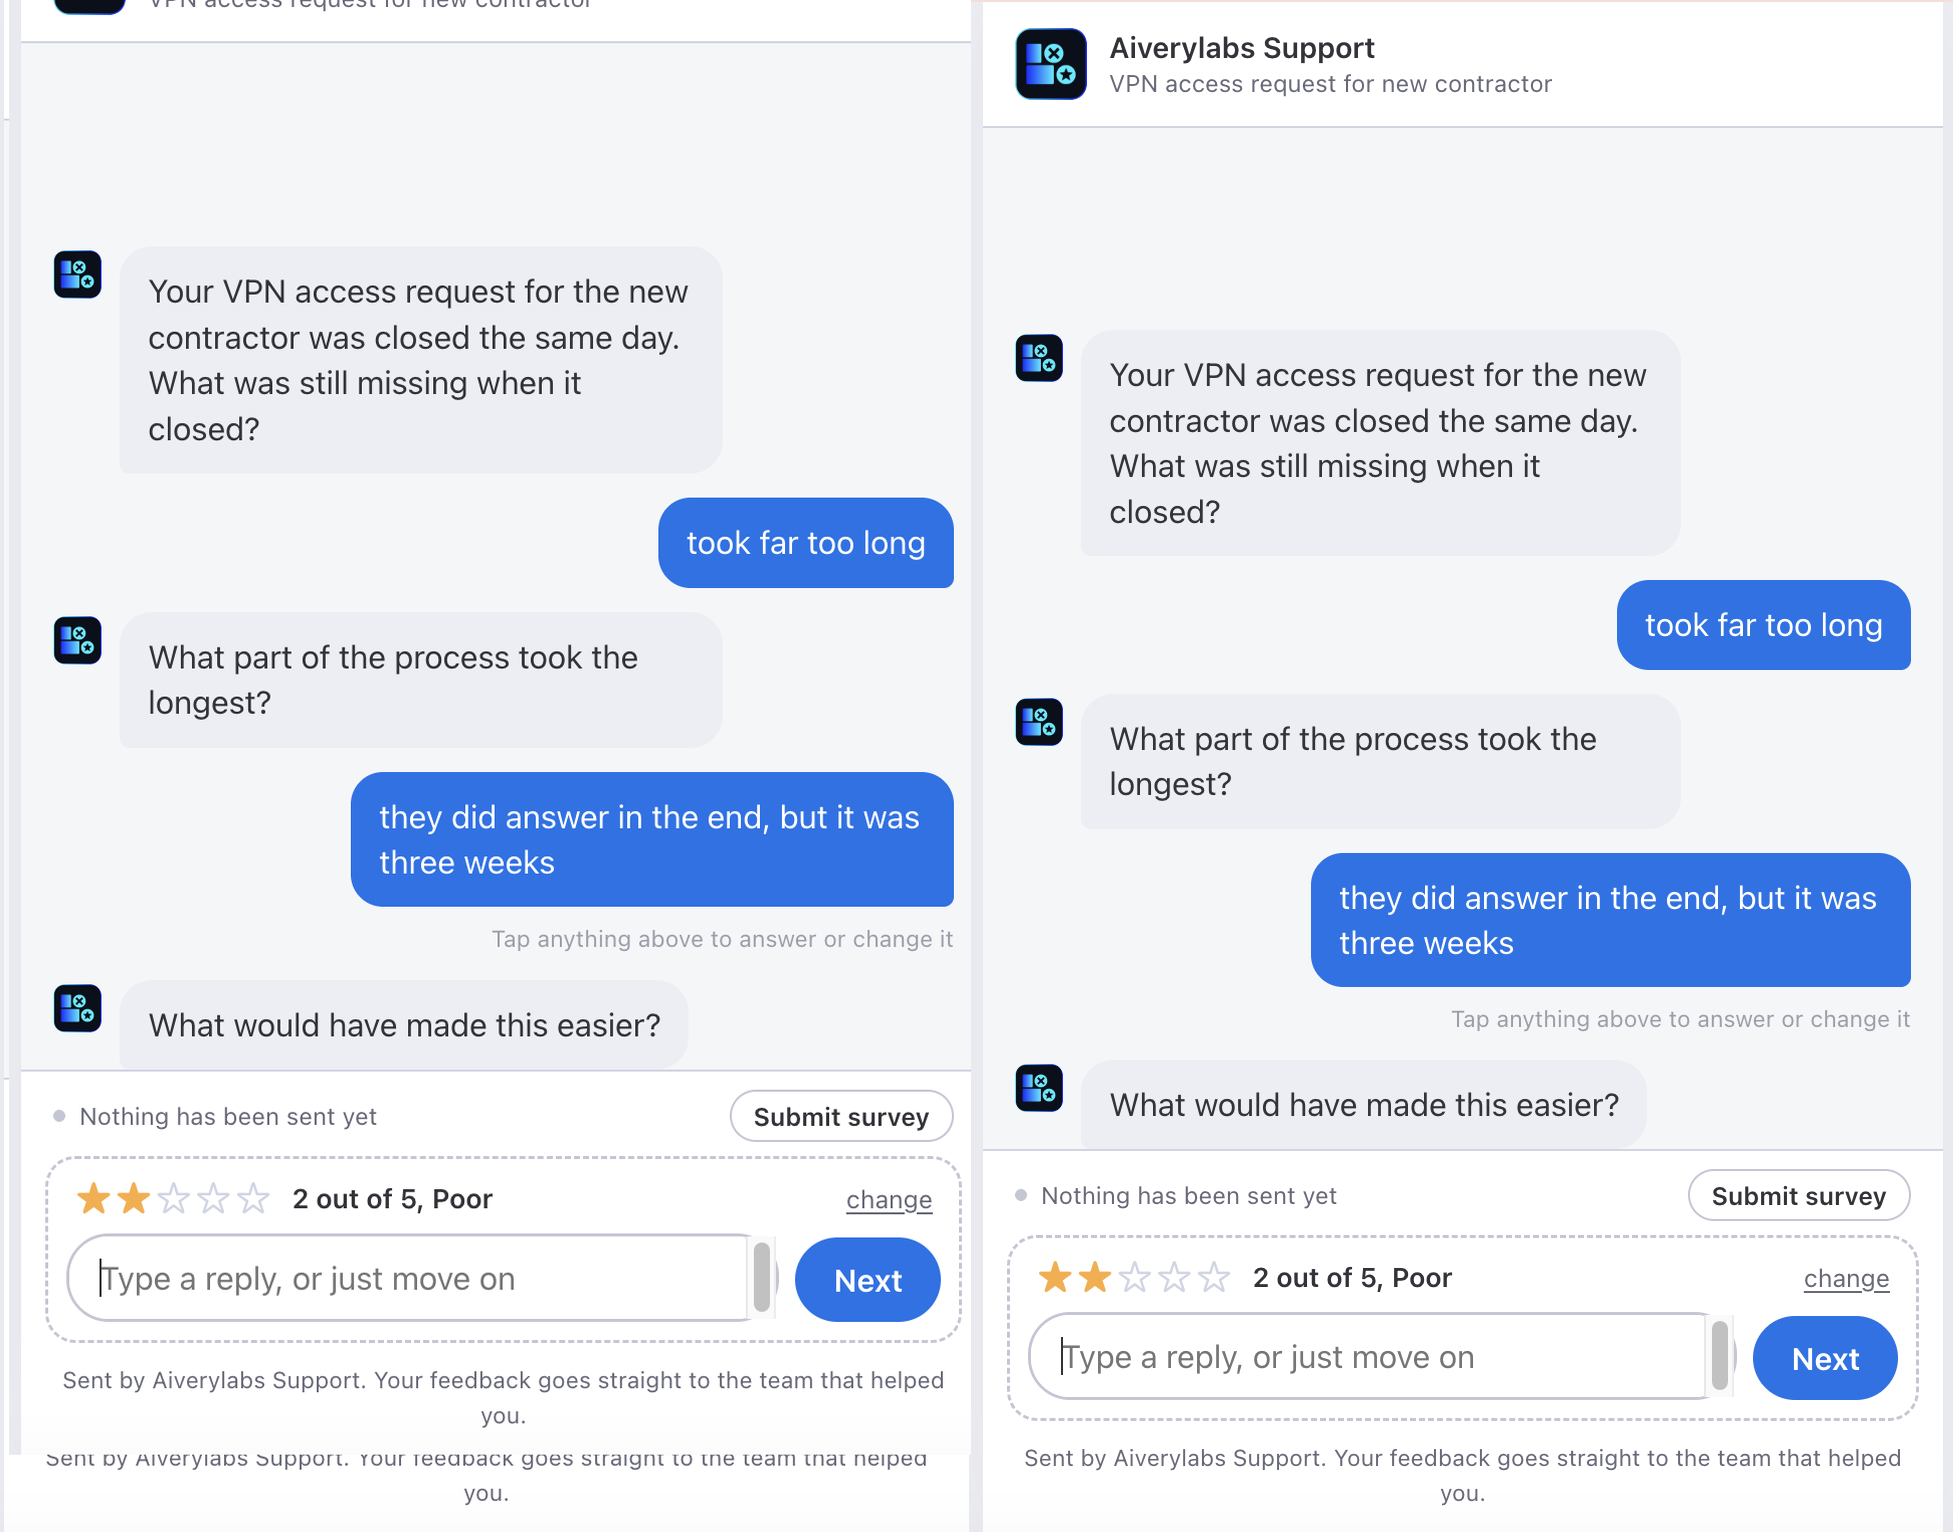
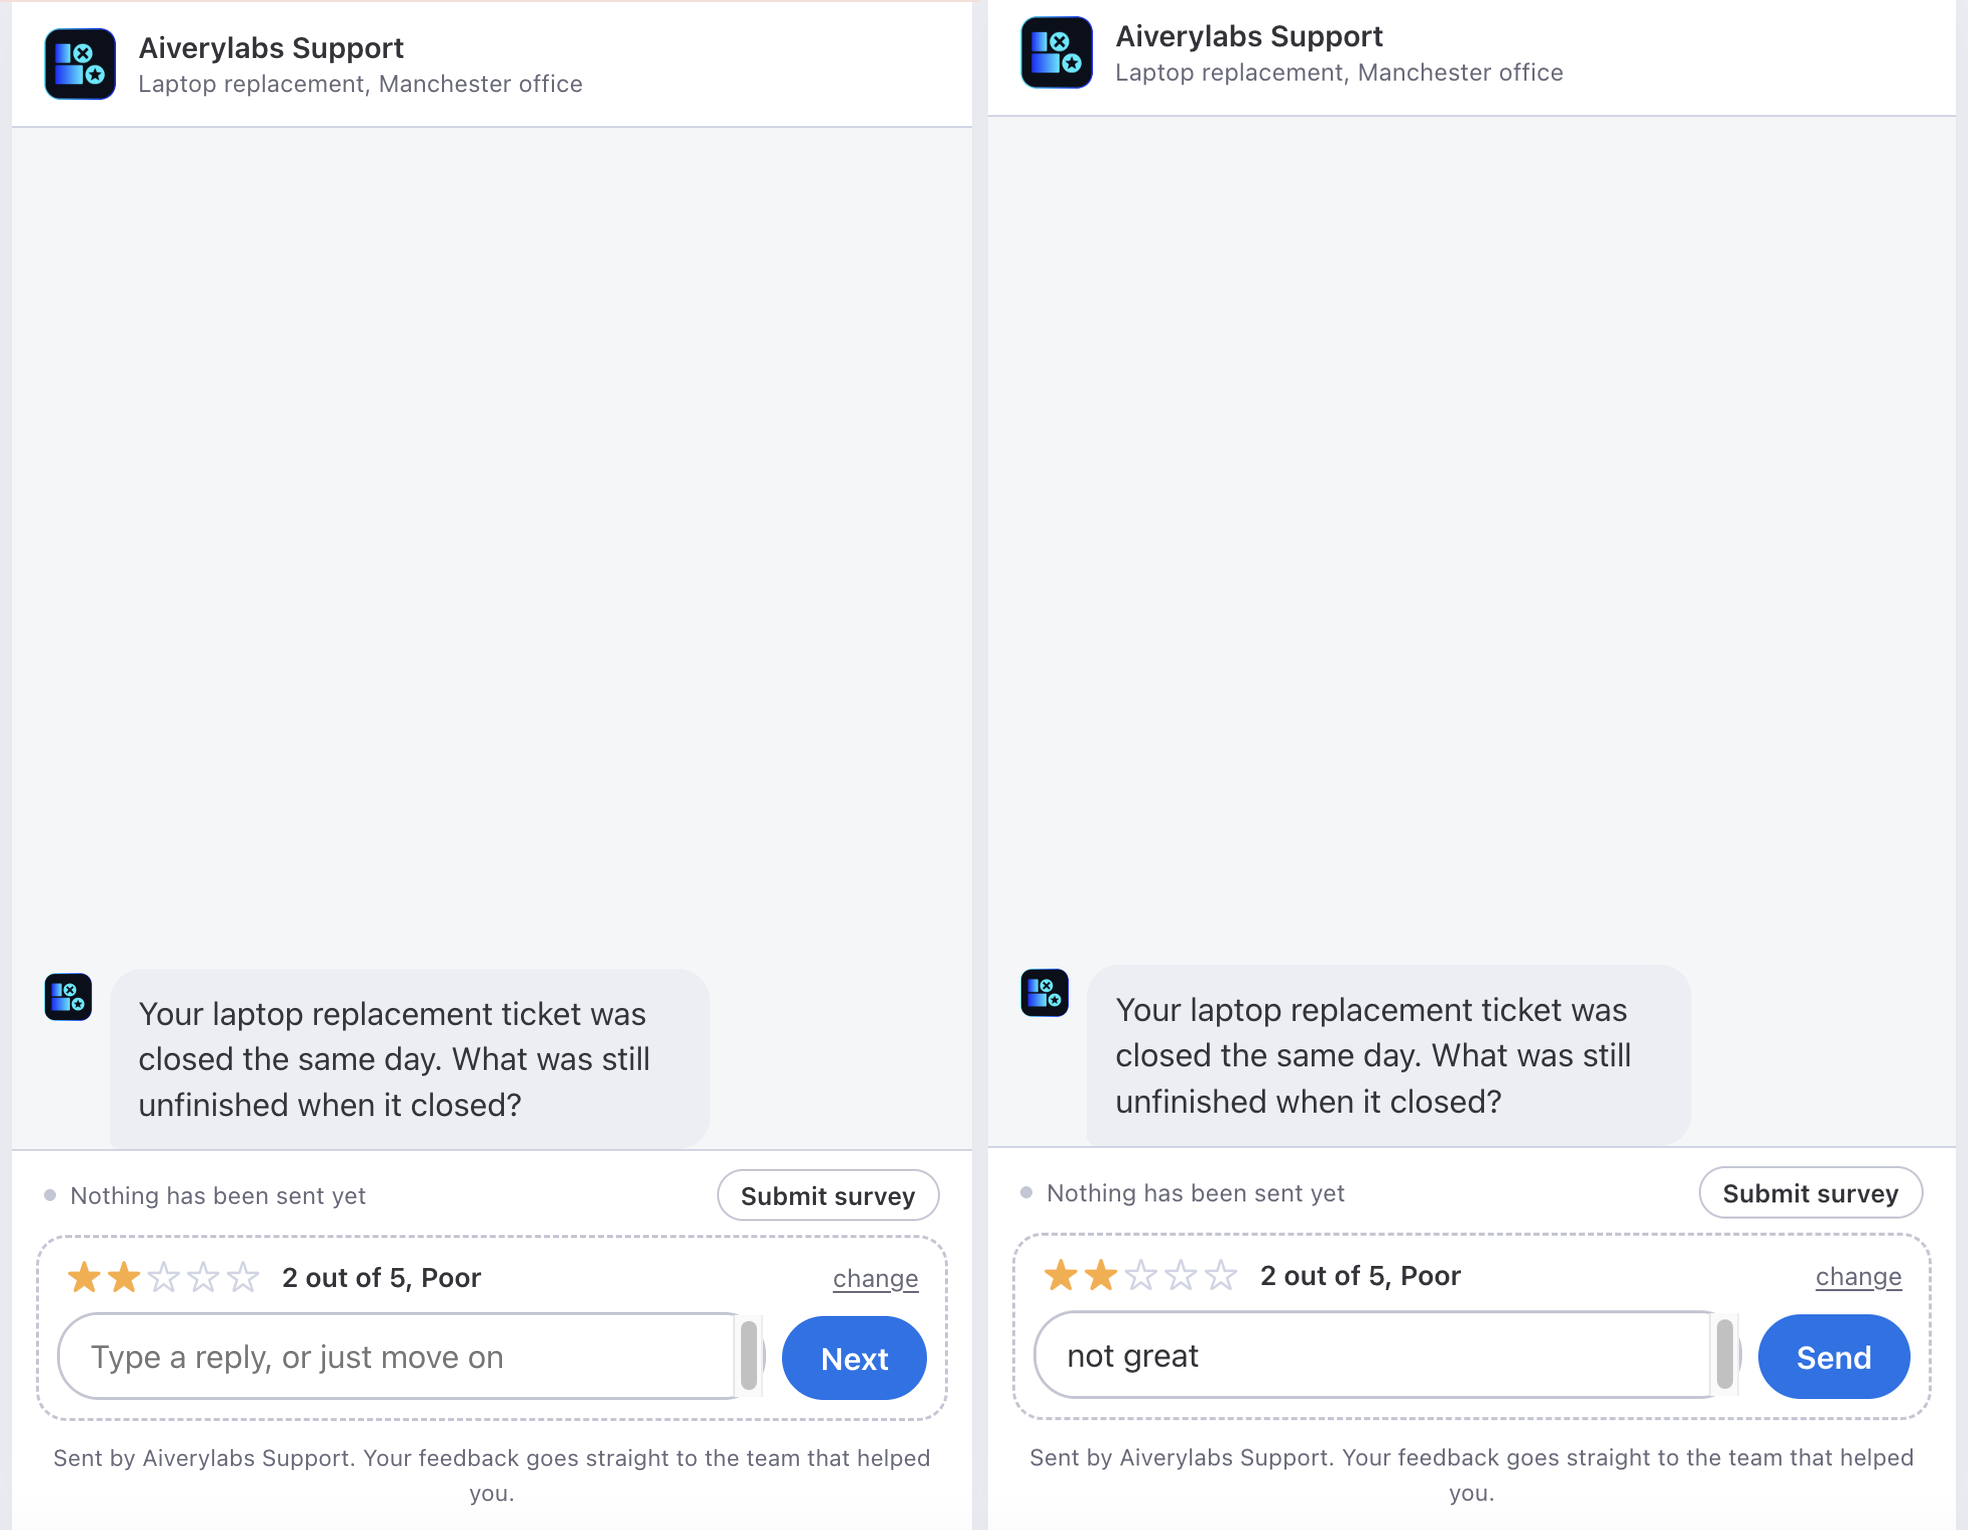
Wire in 37-next-vs-send, and give §8 commands a person can type
The recapture is right: same question, same rating, empty box reading
Next on one side and "not great" typed with Send on the other. Alt text
names both states and the typed word, since the difference between the
panels is the whole point and a reader who cannot see it gets nothing
from "the same turn twice".

§8 described two skills without showing anything anyone would type. It
now lists five that work, and two behaviours that were missing:

  a ticket can be named rather than looked up by id, and a name
  matching more than one ticket makes the skill refuse and list them
  rather than guess - which is what stops a follow up item landing
  against the wrong customer's words

  Sidekick asks for confirmation before either skill runs, including
  the read-only one. monday's behaviour, not ours, and declining means
  nothing reaches us at all

The examples sit before the not-gated warning deliberately: seeing what
anyone can ask makes "there is no switch to leave off" land harder than
it does in the abstract.

Automatic follow-up item creation is still undocumented - the csat
session is establishing it from the code rather than me writing it from
a description.

Claude-Session: https://claude.ai/code/session_018feMo3tg4cgPTaK7DzbNhe

diff --git a/survey-flow/user-guide.html b/survey-flow/user-guide.html
@@ -502,13 +502,10 @@
     <h3>Next and Send are different buttons</h3>
     <p>The button under a turn reads <strong>Send</strong> when there is something to send, or when the question is required. It reads <strong>Next</strong> when the box is empty and the question is optional — and pressing Next skips that question.</p>
     <p>On a required question it always reads Send. Next is a promise that the customer can move on without answering, and on a required question that promise would be false.</p>
-    <!-- SCREENSHOT NEEDED: 37-next-vs-send.png. Drop the file into images/survey-flow/ and delete
-         the two comment markers around the figure below.
     <figure>
-      <img class="screenshot" src="../images/survey-flow/37-next-vs-send.png" alt="The same survey turn twice: an empty answer box with the button reading Next, and a filled one with the button reading Send">
-      <figcaption>Empty box, Next. Something typed, Send.</figcaption>
+      <img class="screenshot" src="../images/survey-flow/37-next-vs-send.png" alt="The same survey turn side by side: on the left an empty answer box with the button reading Next, on the right the words not great typed into the box and the same button reading Send">
+      <figcaption>The same question twice. Empty box, Next. Something typed, Send.</figcaption>
     </figure>
-    -->
 
     <h3>They can stop whenever they like</h3>
     <p>A <em>Submit survey</em> button is there from the first turn. The conversation is skippable, and only two things are ever required: the star rating, always, and the comment, if you ticked it required. Everything else can be left.</p>
@@ -608,6 +605,18 @@
 
     <h2 id="sidekick"><span class="step-num">8</span>Ask Sidekick about your feedback</h2>
     <p>Survey Flow publishes two skills to monday.com's Sidekick assistant. One finds feedback: ask it what customers said about a ticket, or name a ticket and it will find it. The other creates a follow up item from a response, into the same destination you set in step 3.</p>
+    <h3>Things to ask it</h3>
+    <p>All of these work as typed:</p>
+    <ul>
+      <li><code>find comments about billing</code></li>
+      <li><code>show me negative feedback from last week</code></li>
+      <li><code>has anyone from &lt;customer email&gt; given feedback</code></li>
+      <li><code>any bad feedback nobody handled</code></li>
+      <li><code>create a follow-up for &lt;ticket name&gt;</code></li>
+    </ul>
+    <p>The last one carries a behaviour worth knowing. <strong>You can name a ticket rather than look up its id</strong> — and if the name you give matches more than one ticket, the skill refuses and lists them instead of picking one. That refusal is what stops a follow up item being created against the wrong customer's words, so read the list rather than retrying with the same name.</p>
+    <p><strong>Sidekick asks you to confirm before it runs either skill, every time, including the one that only reads.</strong> That is monday.com's behaviour and not something we can switch off. It is also a real stop rather than a formality: decline and nothing reaches Survey Flow at all, so a question that came out wrong costs you nothing.</p>
+
     <p>The difference from everything else in this guide is worth stating plainly. <strong>These are not gated on a setting.</strong> There is no switch to leave off. Anyone who can invoke the skill reaches them, which means an account admin or a board owner.</p>
     <p>The finding skill returns, for each response it matches, the customer's comment exactly as written, the follow up answers, the score, the ticket title, a date, and the display name of the agent who handled the ticket. Sidekick writes its reply out of that material, and the reply lands in a chat transcript. How long that transcript lives, and who else can read it, is monday.com's to answer rather than ours.</p>
     <p>If that is more exposure than suits your team, the lever is who holds admin and board owner rights, not a setting inside Survey Flow.</p>

diff --git a/SCREENSHOTS.md b/SCREENSHOTS.md
@@ -47,25 +47,19 @@ when it has a clean verdict against it.
 
 ---
 
-## ⚠ Outstanding — 2 of 15
-
-### `37-next-vs-send.png` — RECAPTURE, the frame does not show what it needs to
-**What landed:** two panels of the same survey side by side, and **both show an empty box with the
-button reading Next.** The Send state is not in the frame, so the image does not demonstrate the
-distinction it exists for. Its figure is left commented out in the page rather than published.
-**What it needs:** the same turn twice — empty box reading **Next**, and something typed reading
-**Send**. Type a word into the composer for the second crop; that is the whole difference.
-**Note:** `38-band-change-warning` and `46-mode3-survey` both happen to catch a **Send** button, so
-the state is not unphotographable — it just is not in this file.
-**Lands in:** §5, under *Next and Send are different buttons*.
+## ⚠ Outstanding — 1 of 15
 
 ### `01-marketplace-install.png` — blocked, not your fault
-Still the only broken image on the published page, and still blocked until the app is listed on the
-marketplace, because the listing is the subject.
+The only broken image on the published page, and still blocked until the app is listed on the
+marketplace, because the listing is the subject. Everything else is in.
+
+⚠ `37-next-vs-send` was recaptured on 2026-09-11 and **is now correct**: same question, same rating,
+empty box reading Next on the left, "not great" typed and the button reading Send on the right. The
+first attempt had Next in both panels. It is wired in.
 
 ---
 
-## Landed and wired — 13 of 15
+## Landed and wired — 14 of 15
 
 All of these are uncommented in the page, with alt text and captions checked against the image
 itself rather than against what was requested. Where they differed, the words were changed.
@@ -73,6 +67,7 @@ itself rather than against what was requested. Where they differed, the words we
 | File | Lands in | Alt text |
 | --- | --- | --- |
 | `36-survey-thread` | §5, *It is a conversation* | rewritten — it is mode 3, so the opening question is AI written, and two answers are already sent |
+| `37-next-vs-send` | §5, *Next and Send* | rewritten — names both states and the typed word, after a recapture |
 | `38-band-change-warning` | §5, *Changing the rating* | as written; the dialog names "the three answers you have given" |
 | `39-config-groups` | §3, after the three groups are named | **placed** — no restructuring needed, it sits with the paragraph describing the groups |
 | `41`+`42-mode1` | §3, *Let AI write some of the questions* | rewritten — 42 shows a Choose one question, which the old alt did not mention |
